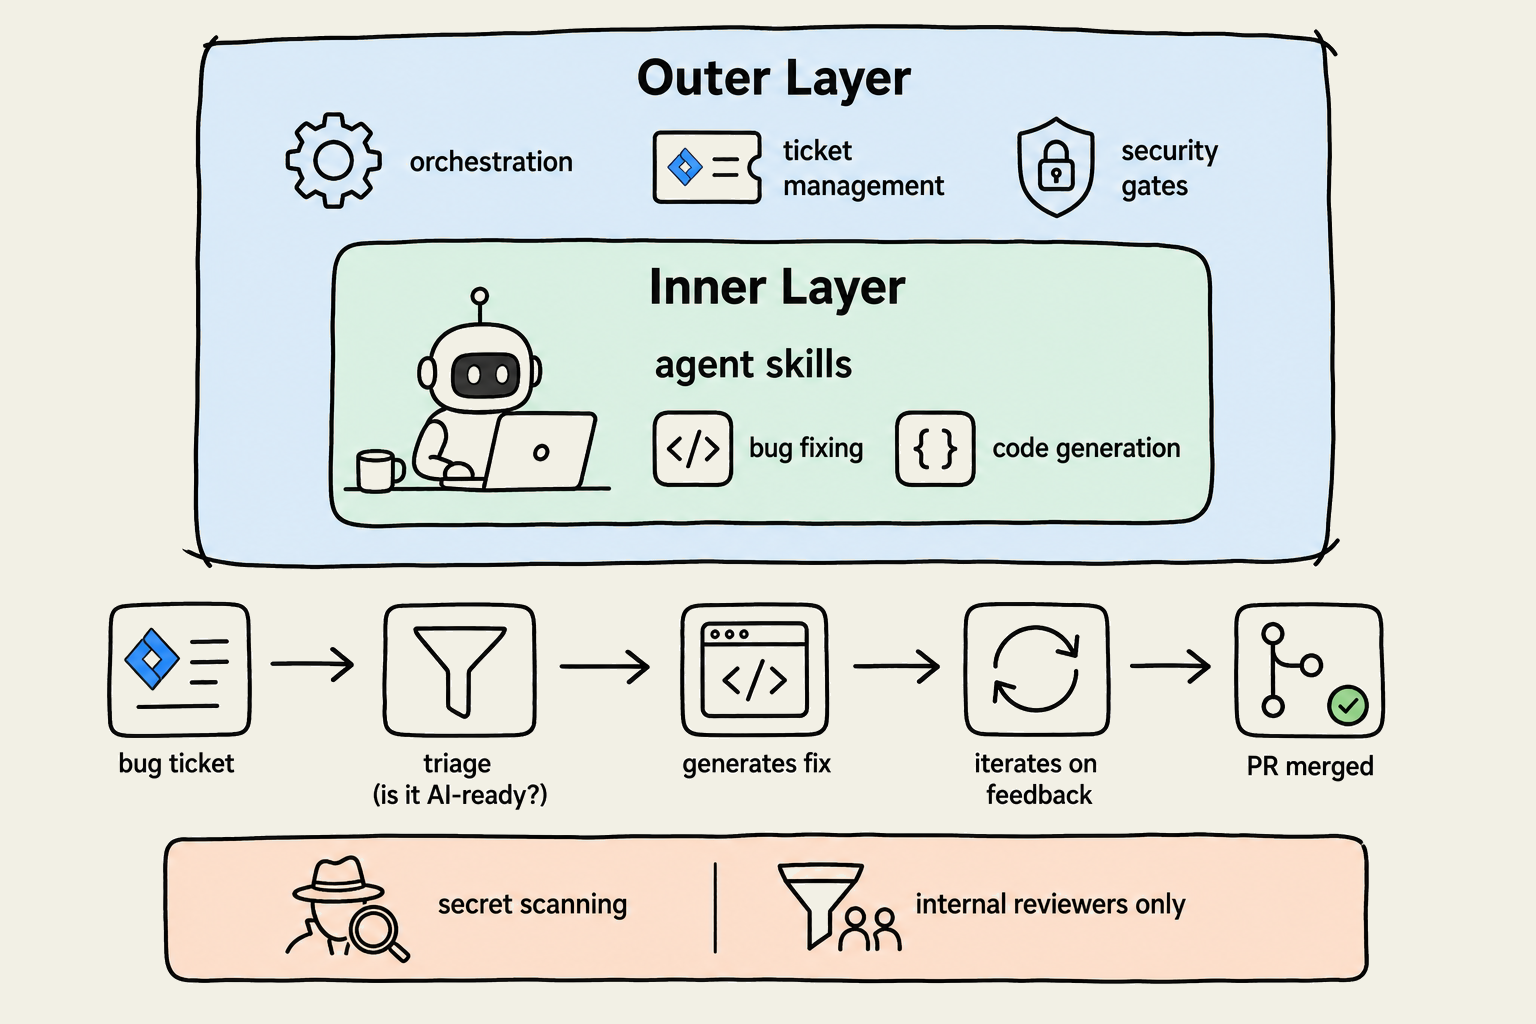
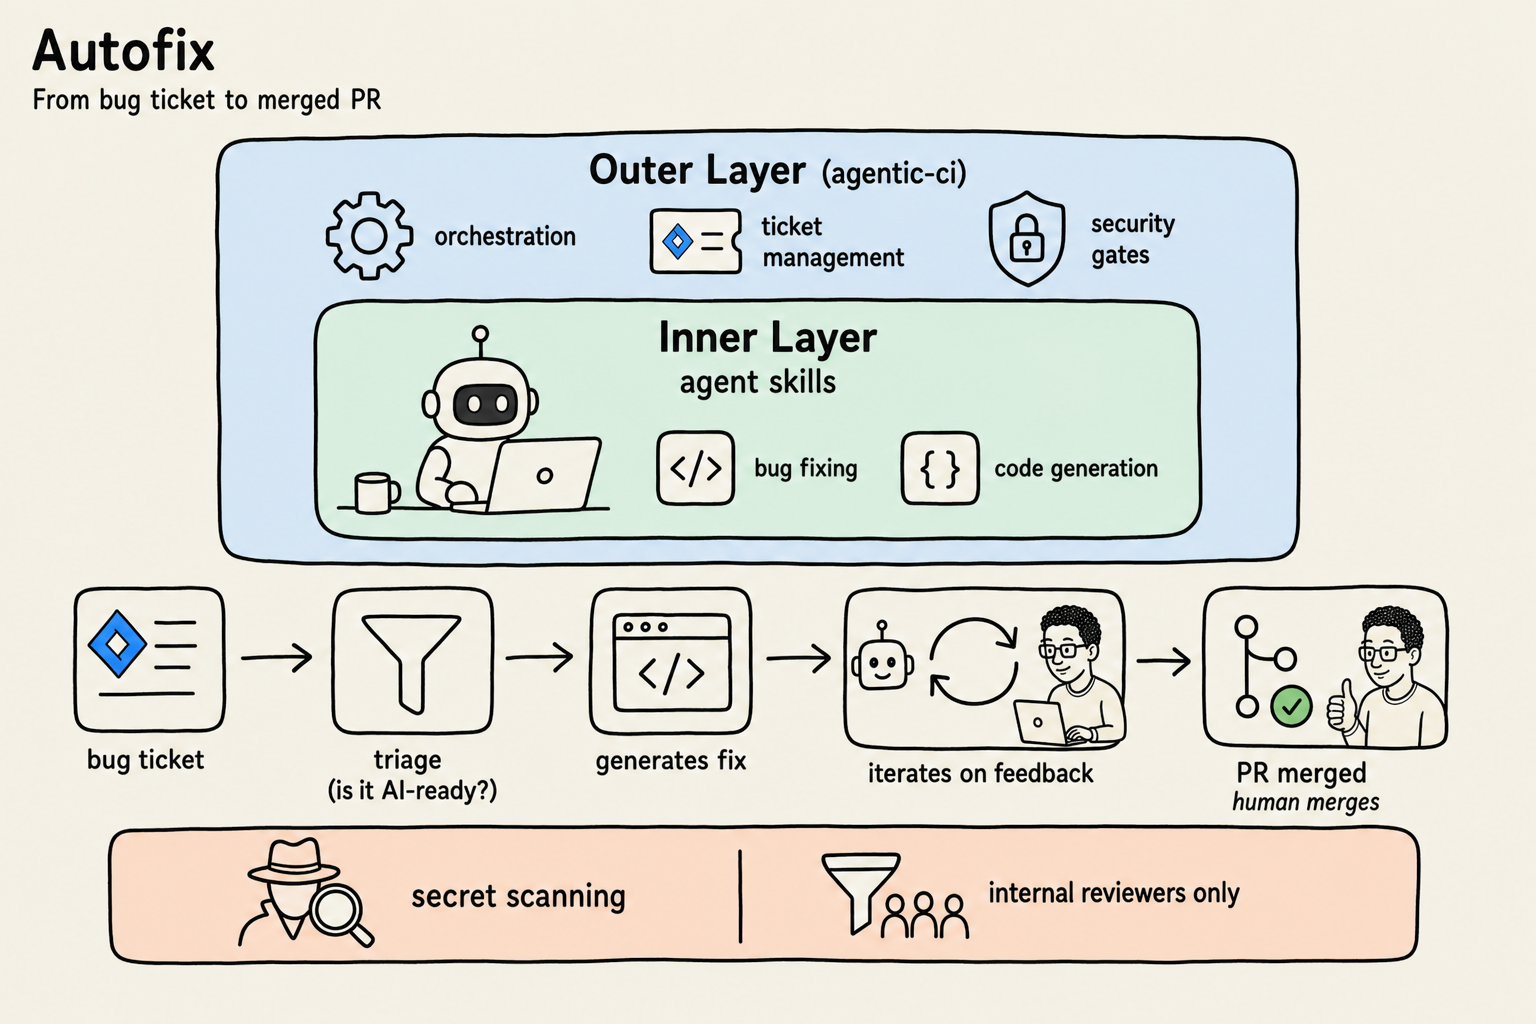
Update Factory Floor post: prose tightening, image refresh
Tightened Test Generator, Docs Generator, and closing sections for
clarity. Regenerated test-gen, doc-creator, and build-release diagrams
with consistent blog sketch style. Fixed typos and trimmed wordy
constructions throughout.

Changed region(s): [[0.0, 0.0, 0.9688, 0.9688]]

diff --git a/content/posts/software-factory-floor.md b/content/posts/software-factory-floor.md
@@ -1,12 +1,13 @@
 ---
 title: "What's on our Factory Floor"
 date: 2026-07-07T00:00:00-04:00
+lastmod: 2026-07-25T00:00:00-04:00
 draft: false
 tags: ["ai", "software-factory", "agentic-sdlc", "engineering-leadership"]
 description: "The Software Factory isn't one pipeline. It's a set of specialized workstations wired into a shared switchboard. Here's what's actually on the floor."
 ---
 
-In my [last post](/posts/what-is-a-software-factory/), I described what a Software Factory is and why my organization is building one. I kept the view as accessible as I could, framing it as a pipeline of agents with quality gates and human checkpoints at each stage.
+In my [last post](/posts/what-is-a-software-factory/), I described what a Software Factory is and why my organization is building one. I intentionally kept the view as accessible as possible, framing the factory as a pipeline of agents with quality gates and human checkpoints at each stage.
 
 That's a useful mental model for understanding the concept. But now that we're looking at what's actually in place, the picture gets more interesting.
 
@@ -14,11 +15,11 @@ That's a useful mental model for understanding the concept. But now that we're l
 
 ## The factory floor
 
-The factory floor doesn't have a conveyor belt. There's no central system that takes a feature request in one end and delivers shipped code out the other. Instead, there are specialized **workstations**, each one watching for its kind of work and updating state when it's done.
+The factory floor actually doesn't have a conveyor belt at all. There's no central system that takes a feature request in one end and delivers shipped code out the other. Instead, there are specialized **workstations**, each one watching for its kind of work and updating state when it's done.
 
 ![The Software Factory floor](/images/factory-floor.png)
 
-My first post framed this as a pipeline, and that's the way it's most often presented. A left-to-right flow from RFE to Strategy to Epic to Code to Test to Docs to Build. That sequence exists, and it's the recommended way to route work through the factory. But the components are modular. The test plan generator can pull directly from a feature's acceptance criteria without waiting for code to be written. The autofix agent handles bugs from any source, completely independent of where they sit in any pipeline sequence.
+My first post framed this as a pipeline, and that's the way it's most often presented. A left-to-right flow from RFE to Feature to Epic to Code to Test to Docs to Build. That sequence exists, and it's the recommended way to route work through the factory. But the components are modular. Workstations typically follow that route, and they can optionally take a different path when the work doesn't need every station. For example, the test plan generator can pull directly from a feature's acceptance criteria without going through the Code station first. The autofix agent can handle bugs from any source, independent of where they sit in the usual pipeline sequence.
 
 Manufacturing has a name for this kind of arrangement. A **job shop** is a factory with specialized stations that activate when work arrives at their queue, as opposed to an assembly line where material flows through fixed stations in a fixed sequence. Our Software Factory is akin to a job shop. The pipeline diagram is the instruction guide for how to route work through the shop, but the shop itself is more flexible than any single routing suggests.
 
@@ -26,47 +27,68 @@ This is why teams can adopt pieces independently. You don't need to commit to th
 
 ---
 
-## What's in the tool bag
+## The workstations
 
-Each component follows the same pattern I described in the first post. An agent does the work, a rubric scores the output and attempts auto-revision if the score is low, and a human reviews and signs off.
+Each component follows the pattern I described in the first post. An agent does the work, a rubric scores the output and attempts auto-revision if the score is low, and a human reviews and signs off.
 
-Most of the components are built as [Claude Code](https://docs.anthropic.com/en/docs/claude-code) skills and plugins, LLM-powered agents that run both interactively in an engineer's IDE and headlessly in CI pipelines. Skills are project-specific workflows. Plugins are reusable scoring engines and tools that multiple components can share. The agents interact with Jira through a mix of MCP integrations and direct REST API calls, and produce artifacts like PRs, documentation merge requests, and evaluation reports.
+Most of the components are [Claude Code](https://docs.anthropic.com/en/docs/claude-code) skills and plugins that run both interactively in an engineer's IDE and headlessly in CI pipelines. Skills are component-specific workflows. Plugins are reusable scoring engines and tools that multiple components can share. The factory agents interact with Jira through a mix of MCP integrations and direct REST API calls, and produce artifacts like PRs, documentation merge requests, and evaluation reports.
 
 Here's what's on our factory floor today.
 
 ### [RFE Creator](https://github.com/opendatahub-io/rfe-creator) + [Assess RFE](https://github.com/opendatahub-io/assess-rfe)
 
-Incoming feature requests scored against a 5-criterion rubric, auto-revised where possible, and submitted to Jira. The rubric scoring engine is a separate, reusable plugin that other components can plug into. The full lifecycle (create, review, revise, split, submit) runs in CI with headless and dry-run modes, so it can process batches without human interaction until the review step.
+This is where incoming feature requests enter the factory. An agent scores each request against a five-criterion rubric, revises the weak parts when it can, and only then submits to Jira, so the board starts with something closer to a real RFE than a half-written ask. The rubric scoring engine is a separate, reusable plugin that other components can plug into. The full lifecycle (create, review, revise, split, submit) runs in CI with headless and dry-run modes, so it can process batches without human interaction until the review step.
 
 <img src="/images/rfe-rubric.png" alt="RFE Quality Rubric" style="display:block;max-width:360px;margin:1em auto;">
 
-### [STRAT Creator](https://github.com/ederign/strat-creator)
+### Features ([STRAT Creator](https://github.com/ederign/strat-creator))
 
-Approved RFEs become features that our teams will implement, each with a technical strategy attached. A scoring rubric evaluates each feature across four dimensions. CI generates the feature strategies and scoring reports, and engineers pull them into a local workspace for review. The strategy agent also pulls from a shared architecture context repository to ground its recommendations in existing system design decisions.
+Once an RFE clears the gate, STRAT Creator turns it into a Feature with a generated technical strategy, scores that strategy on four dimensions in CI, then engineers pull the strategy and review artifacts into a local workspace for sign-off. STRAT is our Jira issue type for those Features. STRAT Creator also pulls from a shared architecture context repository so recommendations sit on top of product decisions we have already made, not a blank slate.
 
-![Feature scoring rubric, two-workspace model, and architecture context](/images/strat-creator-flow.png)
+![RFE to strategy and Jira Feature via CI scoring, then local pull/push review](/images/strat-creator-flow.png)
+
+### [Epic Creator](https://github.com/opendatahub-io/epic-creator)
+
+Signed-off strategies do not stay as documents. **Epic Creator** turns each one into a set of epics with clear dependencies, then reviews that plan before it lands in Jira. Those epics come in two types. **Investigation epics** resolve unknowns that could change the plan. **Implementation epics** produce a concrete deliverable for a single component. Each epic gets an AI-implementability score. An adversarial review then checks that the set of epics covers the strategy and that the dependency order is right. Approved epics land in Jira with links that encode what must finish before what, so independent epics can be worked in parallel while docs and integration stay last in line. Investigation epics are picked up next by **Epic Investigator**. Implementation epics feed **Epic Code Gen**. The factory stops at epics. Finer story breakdown stays with teams or happens later during code generation.
+
+![Signed-off STRAT through decompose and review to Investigation and Implementation Jira epics](/images/epic-creator-flow.png)
+
+### [Epic Investigator](https://github.com/jwforres/epic-investigator)
+
+Some epics are really open questions masquerading as well-defined work. Those are the Investigation epics Epic Creator already put on the board, the unknowns that have to be answered before the Implementation epics behind them know the right approach. Epic Investigator is the workstation that resolves them. It is a Claude Code skill that picks each Investigation epic up from Jira and chooses the lightest way to answer its questions, whether that means looking it up, trying it locally, or deferring anything that needs a real cluster. Then it gathers evidence and adversarially checks the claims. The output is a go/no-go report attached back to the epic so dependent implementation can proceed with something firmer than a guess. When a question needs a cluster, it does not fake an answer in the sandbox. It parks a runnable spec for later instead.
+
+![Investigation epic through evidence gathering to a go/no-go report for Implementation](/images/epic-investigator-flow.png)
+
+### [Epic Code Gen](https://github.com/ederign/epic-code-gen)
+
+When an implementation epic is ready for code, this workstation implements it against the target repo and opens a PR that has already been through agent review. Spec and plan come first, then test-driven implementation, then four independent reviewers covering architecture, tests, lint, and intent. Failed reviews iterate. Passing work opens one PR (epics are sized for a single repository). From there, review comments (from bots or humans) can go back into another codegen pass until a human merges it. The diffs often look large. That's not feature sprawl. The codegen path is deliberately heavy on tests, often several times the size of the production change, so the PR lands as ready as possible and needs fewer passes to get across the line.
+
+![Epic Code Gen flow from epic to reviewed PR](/images/epic-code-gen-flow.png)
 
 ### [Autofix](https://github.com/opendatahub-io/autofix-skills)
 
-This component has a two-layer architecture. An inner layer of skills runs inside an agent container handling the actual bug fixing and code generation. An outer layer, powered by [agentic-ci](https://github.com/opendatahub-io/agentic-ci) (more on this in the shared infrastructure section below), manages orchestration and Jira ticket management. The agent triages bug tickets for AI readiness, generates code fixes as PRs, and iterates on review feedback. Security gates include secret scanning and filtering to internal reviewers only.
-
+Where Epic Code Gen implements features, Autofix remediates bugs and CVEs. It has a two-layer architecture. An inner layer of skills runs inside an agent container handling the actual bug fixing. An outer layer, powered by [agentic-ci](https://github.com/opendatahub-io/agentic-ci) (more on this in the shared infrastructure section below), manages orchestration and Jira ticket management. The agent triages bug tickets for AI readiness, generates code fixes as PRs, and iterates on review feedback. Security gates include secret scanning and filtering to internal reviewers only.
 ![Autofix two-layer architecture](/images/autofix-architecture.png)
+
+### Security review
+
+Strategies get a security pass before they harden into implementation plans. A checklist covering auth, data protection, FIPS, and tenant isolation runs as a fifth reviewer skill inside Strat Creator, alongside feasibility, testability, scope, and architecture. The checklist was derived from hundreds of prior strategy reviews. Security is less a standalone workstation and more a habit distributed across the other stations.
 
 ### [Test Generator](https://github.com/opendatahub-io/odh-test-gen)
 
-Generates structured test plans from features, scored across five dimensions where all five must reach the top score to pass. Auto-revises up to two cycles before a human test engineer signs off. The team developing this component is moving toward generating tests directly from a feature's acceptance criteria, which connects feature creation to test generation without needing code to exist first.
+Quality work does not have to wait for code to land first. This workstation generates structured test plans from feature specifications, scored across five dimensions where all five must reach the top score to pass, auto-revising up to two cycles before a human signs off. The team developing this component is moving toward generating tests directly from acceptance criteria, so test planning can optionally start before implementation when the criteria are detailed enough to work from.
 
 ![Test generation flow](/images/test-gen-flow.png)
 
 ### [Docs Generator](https://github.com/tarilabs/doc-creator)
 
-Label-triggered doc generation. When a feature is ready for documentation, adding a label to the Jira issue triggers the doc generator. The label swaps through a lifecycle as the agent generates documentation merge requests.
+Documentation used to take roughly two weeks to produce after a feature was ready. Now a label on the Jira issue kicks off the doc generator, which produces documentation merge requests in about two hours. The agent updates the label at each stage so progress is visible on the board. Epic Creator also creates documentation epics early in the dependency chain, held until the related implementation work is done.
 
 ![Doc creator label lifecycle](/images/doc-creator-flow.png)
 
 ### [AI Ops](https://github.com/opendatahub-io/aiops-infra) (build and release)
 
-When a new component needs to be onboarded into the build system, this plugin handles it. An interactive skill collects onboarding parameters, validates them against a schema, and creates a Jira ticket with a structured YAML attachment. From there, a CI job running every two hours picks up the ticket, executes the onboarding steps sequentially across multiple repositories (container registry, Konflux, operator bundles, product listings), and raises PRs for each step. Every PR gets human review before merging. What used to take nearly a month per component now takes about three days.
+Onboarding a new product component into our build system used to take nearly a month. This plugin brings that down to about three days. An interactive skill collects onboarding parameters, validates them against a schema, and creates a Jira ticket with a structured YAML attachment. From there, a CI job running every two hours picks up the ticket, executes the onboarding steps sequentially across multiple repositories (container registry, Konflux, operator bundles, product listings), and raises PRs for each step. Every PR gets human review before merging.
 
 ![Build and release onboarding flow](/images/build-release-flow.png)
 
@@ -83,12 +105,14 @@ Think of Jira as a switchboard. Each workstation has wired itself in by defining
 ![Jira as a self-routing switchboard](/images/jira-switchboard.png)
 
 - The RFE assessment agent watches for new RFE submissions
-- The strategy agent queries for approved RFEs that haven't been turned into features yet
+- STRAT Creator queries for approved RFEs that haven't been turned into Features yet
+- Epic Creator picks up signed-off Features and creates linked epics
+- Epic Code Gen picks up approved implementation epics and opens reviewed PRs
 - The documentation agent watches for a specific label (`ai1st-doc-start`) that signals dev work is complete
 
 None of them know about each other directly. They know about the switchboard, and the switchboard connects them.
 
-There's no operator manually routing work through the board. Each agent defines its own entry criteria. If the criteria are met, the agent activates. If a human wrote the RFE by hand instead of using the RFE creator, the strategy agent picks it up the same way. It doesn't care how its input was produced, only that the input exists and meets its criteria.
+There's no operator manually routing work through the board. Each agent defines its own entry criteria. If the criteria are met, the agent activates. If a human wrote the RFE by hand instead of using the RFE creator, STRAT Creator picks it up the same way. It doesn't care how its input was produced, only that the input exists and meets its criteria.
 
 ---
 
@@ -96,26 +120,20 @@ There's no operator manually routing work through the board. Each agent defines 
 
 Some components serve the whole factory rather than handling a single stage.
 
-- **Architecture context** is the factory's institutional memory for system design decisions. Both the RFE and strategy agents consume it for feasibility checks and technical recommendations.
-- **The agent eval harness** measures how well agent skills perform, with MLflow integration for tracking results across runs. The autofix agent uses it with 14 evaluation cases today.
-- **The skills registry** packages and distributes agent skills across teams and tools, with container images available for CI environments.
+- **[Architecture context](https://github.com/opendatahub-io/architecture-context)** is the factory's institutional memory for system design decisions. Agents query it for component and repo mapping, feasibility checks, and technical recommendations. Epic Creator and the investigator both lean on it.
+- **The agent eval harness** measures how well agent skills perform, with MLflow integration for tracking results across runs. The autofix agent uses it with 14 evaluation cases today, and RFE assessment now emits structured traces as well.
+- **The skills registry** packages and distributes agent skills across teams and tools, with a marketplace install path and container images for CI environments.
 - **The agentic CI framework** provides sandboxed execution environments for running agents safely, from local execution to Podman containers to kernel-level sandboxing. Designed to run any agent, not just autofix.
+- **Component maturity assessment** scans components against Dev Preview, Tech Preview, and GA requirements, replacing manual Jira checklist tickets. Results show up on Org Pulse, and the checks are being wired into Strat Creator and Epic Creator as quality gates.
+- **The local AI-first platform** is the factory's sandbox. Fake Jira, GitHub, and GitLab sit on a local Kubernetes cluster so skills can be developed and chained without touching production. A workflow engine and claim-verification system sit alongside it, so teams can prove a pipeline works before pointing it at real tickets.
 
 ---
 
-## What's missing, and what's already working
+## The system in motion
 
-Two components from the original pipeline diagram don't exist yet.
+The full end-to-end flow from RFE through shipped code is still stitching itself together. Individual workstations already deliver value on their own. RFE quality is more consistent. Autofix is merging real PRs. Linked epic plans are landing in Jira for human review. Feature code generation is producing reviewed diffs from approved epics.
 
-**Epic and story decomposition** sits in the gap between "approved feature" and "code-ready work items." There's an early prototype, but the full decomposition from feature to engineering tasks hasn't been built yet. This is worth watching because it's the step where high-level intent becomes concrete engineering work.
-
-**Spec-to-code** is an emerging prototype that takes a feature specification end-to-end to working code through an agent loop via PR comments. An agent generates code, submits a PR, a reviewer comments, and the agent iterates. Currently limited to single-component issues, but it bridges the gap between having a feature spec and having working code.
-
-**Security review** was originally planned as its own component, but it turns out that quality and security gates are built into every agent rather than bolted on as a separate pass. The autofix agent has its own security gates. The strategy agent has its own rubric-based reviewers. Each component ships with built-in checks that evaluate its output before a human sees it.
-
-The full end-to-end flow from RFE through shipped code hasn't been connected yet. Individual components work and have already demonstrated value on their own, but the complete sequence running as an integrated system is still ahead of us.
-
-That said, there's plenty of value already being realized from the individual pieces. We have visibility into parts of our delivery process that we didn't have before. Areas that were genuine bottlenecks, like RFE approval, are measurably more efficient. And the modular design means teams don't have to wait for the full integration to benefit from the components that are ready now. The end-to-end connection is the direction, and we can see the path. But it's not a prerequisite for getting value out of the factory floor as it exists today.
+That modularity is deliberate. Teams don't have to wait for every station to be production-ready before they use the ones that already help.
 
 ---
 
@@ -123,7 +141,7 @@ That said, there's plenty of value already being realized from the individual pi
 
 Each of these components has its own story, and future posts will go inside them.
 
-If you read the first post and wondered what this actually looks like in practice, this is the map. A set of specialized workstations wired into a shared switchboard, each one independently useful, designed to compose into larger workflows as the system matures. The pipeline is just one set of instructions. The factory is the floor.
+If you read the first post and wondered what the factory actually looks like in practice, this is the map. A set of specialized workstations wired into a shared switchboard, each one independently useful, designed to compose into larger workflows as the system matures. This is our factory floor.
 
 ---
 
